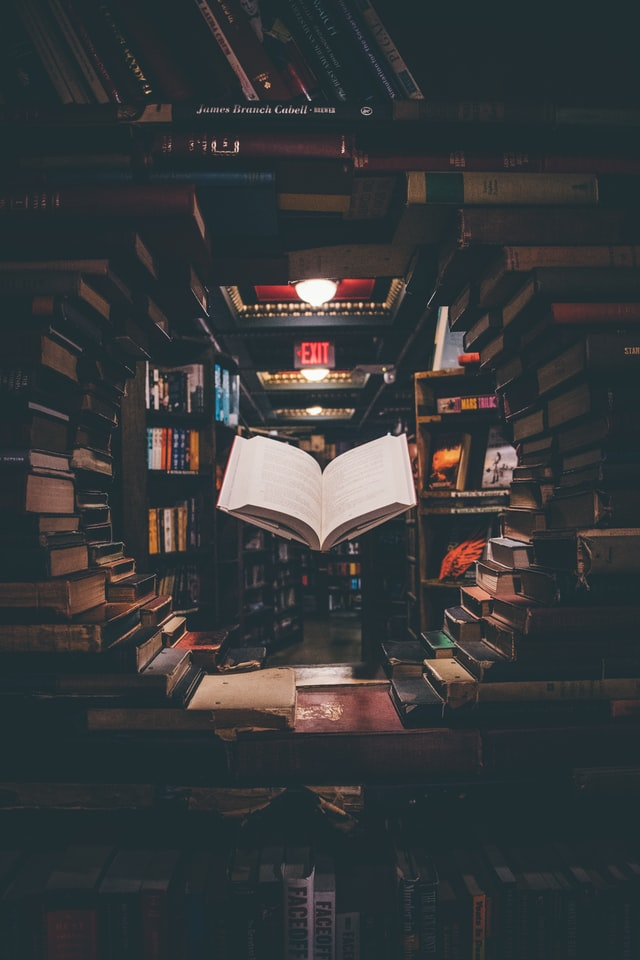
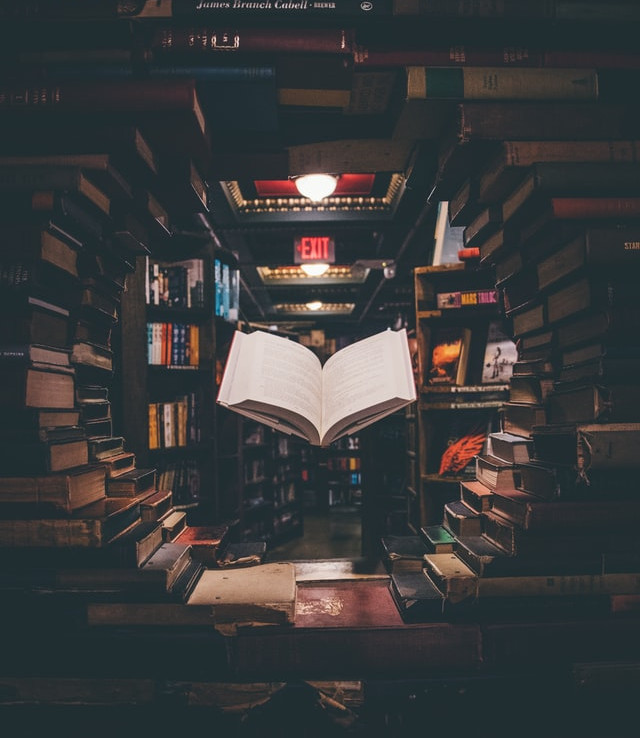
atualização imagem  livro

diff --git a/style.css b/style.css
@@ -364,7 +364,7 @@
 
 .conhecimento-img-wrapper{
     grid-column: 7 /11;
-    grid-row: 2 / 6;
+    grid-row: 2 / 5;
     width: 89%;
     
       
@@ -373,10 +373,9 @@
     justify-content:center;
    
     background-color: rgba(0, 0, 0, 1);
-    border-radius: 5%;
+    border-radius: 100%;
 
-    margin:1rem 1rem ;
-        
+    margin:1rem 1rem ;        
 
 }
 
@@ -385,7 +384,7 @@
     width: 89%;
             
     opacity: 25%;
-    border-radius: 5%;     
+    border-radius: 100%;     
     
     margin:1rem;
 }
